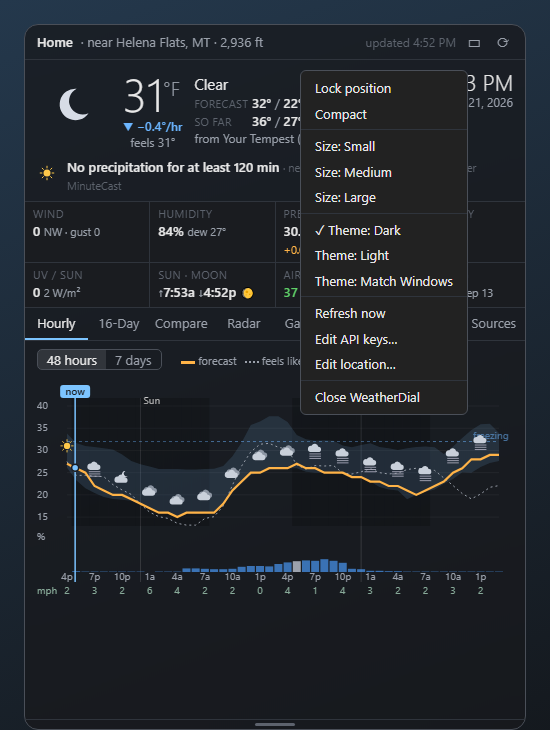
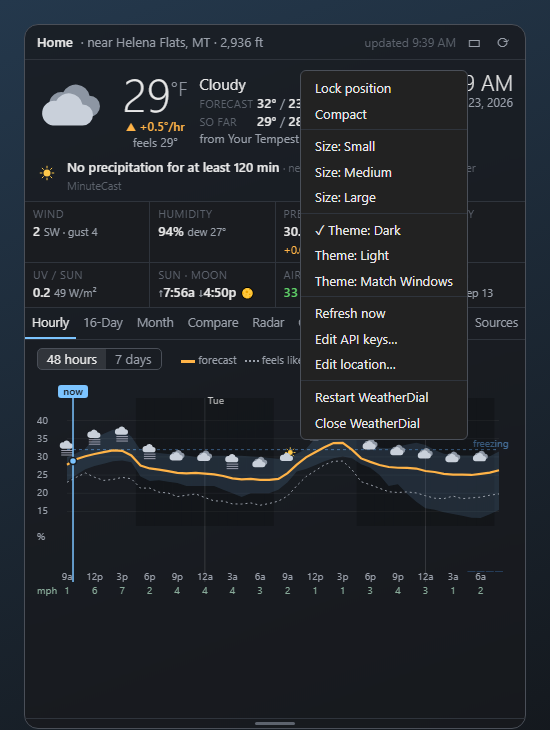
Month calendar tab; Restart WeatherDial in the menus
- Month tab: calendar of forecast days (icon, weighted high/low, rain/snow, colour strip) and past days measured by the station with the day-before forecast miss; red/blue markers for the month's warmest high and coldest low; month arrows; hover for details, click to open the day on 16-Day
- Restart WeatherDial in the right-click and tray menus: the new copy waits for the old one to close
- Tab labels slightly smaller to fit nine tabs
- README and screenshots (Month, menu)

diff --git a/panel.html b/panel.html
@@ -76,7 +76,7 @@
   .stat .v small { font-weight: 400; color: var(--dim); }
 
   nav { display: flex; border-bottom: 1px solid var(--line); }
-  nav div { flex: 1; text-align: center; padding: 6px 0; color: var(--dim); cursor: pointer; border-bottom: 2px solid transparent; }
+  nav div { flex: 1 1 auto; text-align: center; padding: 6px 3px; font-size: 12.5px; white-space: nowrap; color: var(--dim); cursor: pointer; border-bottom: 2px solid transparent; }
   nav div:hover { color: var(--text); }
   nav div.on { color: var(--text); border-bottom-color: var(--accent); }
   .tab { display: none; padding: 8px 12px 10px; height: var(--tabh, 360px); overflow-y: auto; }
@@ -110,6 +110,32 @@
   .day .txt { color: var(--dim); overflow: hidden; white-space: nowrap; text-overflow: ellipsis; }
   .day .pop { color: var(--rain); text-align: right; }
   .day .lo { color: var(--cold); text-align: right; } .day .hi { color: var(--warm); }
+  .calbar { display: flex; align-items: center; gap: 6px; margin-bottom: 6px; }
+  .calbar .mb { cursor: pointer; color: var(--dim); padding: 0 7px; border: 1px solid var(--edge); border-radius: 4px; }
+  .calbar .mb:hover { color: var(--text); background: var(--hover2); }
+  .calbar .mb.off { visibility: hidden; }
+  .calbar b { min-width: 118px; text-align: center; }
+  .cal { display: grid; grid-template-columns: repeat(7, 1fr); gap: 3px; }
+  .cal .wd { text-align: center; color: var(--faint); font-size: 11px; }
+  .cal .c { position: relative; min-height: 62px; padding: 2px 4px 6px; border-radius: 5px; background: var(--hover2);
+            font-size: 11px; overflow: hidden; cursor: help; }
+  .cal .c.fc { cursor: pointer; } .cal .c.fc:hover { background: var(--sel); }
+  .cal .c.out { opacity: .4; }
+  .cal .c.none { background: transparent; border: 1px dashed var(--line); cursor: default; }
+  .cal .c.today { box-shadow: inset 0 0 0 1.5px var(--accent); }
+  .cal .dn { color: var(--dim); font-weight: 600; }
+  .cal .today .dn { color: var(--accent); }
+  .cal .ic { position: absolute; top: 2px; right: 2px; }
+  .cal .t { margin-top: 10px; font-size: 13px; font-weight: 600; white-space: nowrap; }
+  .cal .t .h { color: var(--warm); } .cal .t .l { color: var(--cold); font-weight: 400; }
+  .cal .past .t .h, .cal .past .t .l { color: var(--dim); }
+  .cal .p { color: var(--rain); font-size: 10px; white-space: nowrap; }
+  .cal .m { color: var(--faint); font-size: 10px; }
+  .cal .xb { display: inline-block; margin-left: 3px; padding: 0 3px; border-radius: 3px; font-size: 9px; line-height: 13px; color: #fff; vertical-align: 1px; }
+  .cal .xb.hot { background: #d9443a; } .cal .xb.cold { background: #2a74c9; }
+  .cal .t .xhi, .cal .past .t .xhi { color: #fff; background: #d9443a; border-radius: 3px; padding: 0 2px; }
+  .cal .t .xlo, .cal .past .t .xlo { color: #fff; background: #2a74c9; border-radius: 3px; padding: 0 2px; font-weight: 600; }
+  .cal .strip { position: absolute; left: 0; right: 0; bottom: 0; height: 3px; }
   .bar { position: relative; height: 6px; background: var(--track); border-radius: 3px; cursor: help; }
   .bar::before { content: ""; position: absolute; inset: -9px 0; }   /* a taller area for the tooltip */
   .bar .rng { position: absolute; top: 0; height: 6px; border-radius: 3px; }
@@ -202,11 +228,12 @@
   <div class="stats" id="stats"></div>
   <div class="mini3" id="mini3"></div>
   <nav id="nav">
-    <div data-t="hourly" class="on">Hourly</div><div data-t="daily">16-Day</div><div data-t="compare">Compare</div>
+    <div data-t="hourly" class="on">Hourly</div><div data-t="daily">16-Day</div><div data-t="month">Month</div><div data-t="compare">Compare</div>
     <div data-t="radar">Radar</div><div data-t="gauges">Gauges</div><div data-t="health" id="navHealth" hidden>Health</div><div data-t="afd">Forecaster</div><div data-t="sources">Sources</div>
   </nav>
   <div class="tab on" id="t-hourly"></div>
   <div class="tab" id="t-daily"></div>
+  <div class="tab" id="t-month"></div>
   <div class="tab" id="t-compare"></div>
   <div class="tab" id="t-radar"><div id="radar"></div><div style="margin-top:6px;color:var(--dim)" id="radarInfo"></div></div>
   <div class="tab" id="t-gauges"></div>
@@ -233,6 +260,7 @@
   <div data-act="edit_keys">Edit API keys…</div>
   <div data-act="edit_location">Edit location…</div>
   <hr>
+  <div data-act="restart" title="Close and start again, e.g. after updating WeatherDial's files">Restart WeatherDial</div>
   <div data-act="quit">Close WeatherDial</div>
 </div>
 <script>
@@ -357,7 +385,7 @@ function render() {
 
   renderMinuteCast(); renderHealth(); renderGauges();
   if ($("t-radar").classList.contains("on")) radar();   // keeps an open radar tab current
-  renderHourly(); renderDaily(); renderCompare(); renderAfd(); renderSources();
+  renderHourly(); renderDaily(); renderMonth(); renderCompare(); renderAfd(); renderSources();
 }
 
 // ---------------------------------------------------------------- optional AccuWeather extras
@@ -498,6 +526,94 @@ function renderDaily() {
       <table>${srcRows}</table></div>`;
   }).join("") + `<p style="color:var(--faint);font-size:11px;margin:8px 0 0">High/low = ${W ? "average of all sources, weighted so the most accurate ones count more (switch on the Compare tab)" : "average of all sources"}. Thin marks = the coldest low and warmest high any source predicts. Dot = how well the sources agree (green good, yellow fair, red they disagree). Click a day for details.</p>`;
 }
+// ---------------------------------------------------------------- month calendar
+// Forecast days (the same averages as 16-Day) on a calendar, and for past days what your station
+// measured. Click a forecast day for its details on the 16-Day tab.
+let calMonth = null;     // "YYYY-MM" being shown; null = this month
+const ymd = d => `${d.getFullYear()}-${String(d.getMonth() + 1).padStart(2, "0")}-${String(d.getDate()).padStart(2, "0")}`;
+function renderMonth() {
+  if (!D.days.length) return;
+  const today = D.days[0].date, fc = {}, act = {};
+  D.days.forEach((d, i) => fc[d.date] = i);
+  for (const r of D.verify || []) if (r.actual && r.actual.hi != null && r.date < today) act[r.date] = r;
+  const g = D.gauges?.t_today;
+  // the months there's something to show: the oldest measured day through the last forecast day
+  const first = [today, ...Object.keys(act)].sort()[0].slice(0, 7), last = D.days[D.days.length - 1].date.slice(0, 7);
+  if (!calMonth || calMonth < first || calMonth > last) calMonth = today.slice(0, 7);
+  const [y, m] = calMonth.split("-").map(Number);
+  const start = new Date(y, m - 1, 1); start.setDate(1 - start.getDay());
+  const end = new Date(y, m, 0); end.setDate(end.getDate() + 6 - end.getDay());
+  const wavg = (fcs, k) => { let s = 0, w = 0;
+    for (const [src, v] of Object.entries(fcs || {})) if (v[k] != null) { const x = W ? (W[src] ?? W._typical) : 1; s += v[k] * x; w += x; }
+    return w ? s / w : null; };
+  const agreeTxt = { good: "good (all within 5°)", fair: "fair (within 10°)", low: "low (more than 10° apart)" };
+  // the month's warmest high and coldest low (measured days and forecast days alike; ties all marked)
+  const inMonth = [];
+  for (let dd = new Date(y, m - 1, 1); dd.getMonth() === m - 1; dd.setDate(dd.getDate() + 1)) {
+    const ds = ymd(dd);
+    if (fc[ds] != null) inMonth.push([Math.round(D.days[fc[ds]].hi), Math.round(D.days[fc[ds]].lo)]);
+    else if (act[ds]) inMonth.push([Math.round(act[ds].actual.hi), Math.round(act[ds].actual.lo)]);
+  }
+  const topHi = inMonth.length ? Math.max(...inMonth.map(v => v[0])) : null, botLo = inMonth.length ? Math.min(...inMonth.map(v => v[1])) : null;
+  const mName = new Date(y, m - 1, 1).toLocaleDateString("en-US", { month: "long" });
+  const ext = (hi, lo, out, fcst) => {      // badges, tooltip lines and number classes for this day
+    if (out) return { b: "", t: "", h: "", l: "", c: "" };
+    const isHi = Math.round(hi) === topHi, isLo = Math.round(lo) === botLo, w = fcst ? " (forecast)" : " (measured)";
+    return { b: (isHi ? `<span class="xb hot" title="Warmest high in ${mName}">▲</span>` : "") + (isLo ? `<span class="xb cold" title="Coldest low in ${mName}">▼</span>` : ""),
+             t: (isHi ? `\n▲ Warmest high of ${mName}${w}.` : "") + (isLo ? `\n▼ Coldest low of ${mName}${w}.` : ""),
+             h: isHi ? " xhi" : "", l: isLo ? " xlo" : "", c: isHi || isLo ? " xday" : "" };
+  };
+  let cells = "";
+  for (const d = new Date(start); d <= end; d.setDate(d.getDate() + 1)) {
+    const ds = ymd(d), out = d.getMonth() !== m - 1 ? " out" : "", long = d.toLocaleDateString("en-US", { weekday: "long", month: "long", day: "numeric" });
+    const dn = `<div class="dn">${d.getDate()}</div>`;
+    if (fc[ds] != null) {
+      const i = fc[ds], x = D.days[i], dd = D.detail_days[ds] || {};
+      const txt = (x.by["NWS (official)"] || {}).text || dd.text || "";
+      const isToday = ds === today;
+      const wet = dd.snow >= 0.1 ? `❄ ${dd.snow.toFixed(1)}"` : x.pop ? `${x.pop}%` : "";
+      const tip = `${long}${isToday ? " (today)" : ""}\n${txt ? txt + "\n" : ""}` +
+        `Forecast high ${f0(x.hi)}°, low ${f0(x.lo)}° (${W ? "weighted " : ""}average of ${x.hi_n || Object.keys(x.by).length} sources; ` +
+        `highs ${f0(x.hi_min)}–${f0(x.hi_max)}°, lows ${f0(x.lo_min)}–${f0(x.lo_max)}°)\n` +
+        (x.pop ? `Chance of rain or snow ${x.pop}%` + (dd.snow ? `, snow about ${dd.snow.toFixed(1)}"` : dd.precip ? `, about ${dd.precip.toFixed(2)}"` : "") + "\n" : "") +
+        (x.agree ? `Sources agree: ${agreeTxt[x.agree]}\n` : "") +
+        (isToday && g ? `Measured so far today: high ${f0(g.hi)}°, low ${f0(g.lo)}°\n` : "") +
+        `Click for the details on the 16-Day tab.` + ext(x.hi, x.lo, out, true).t;
+      const e = ext(x.hi, x.lo, out, true);
+      cells += `<div class="c fc${out}${isToday ? " today" : ""}${e.c}" data-i="${i}" title="${esc(tip)}"><div class="dn">${d.getDate()}${e.b}</div><div class="ic">${icon(x.icon, 20)}</div>
+        <div class="t"><span class="h${e.h}">${f0(x.hi)}°</span> <span class="l${e.l}">${f0(x.lo)}°</span></div>
+        <div class="p">${wet}</div>${isToday && g ? `<div class="m">so far ${f0(g.hi)}/${f0(g.lo)}</div>` : ""}
+        <div class="strip" style="background:linear-gradient(90deg,${tempColor(x.lo)},${tempColor(x.hi)})"></div></div>`;
+    } else if (act[ds]) {
+      const r = act[ds], fh = wavg(r.fc, "hi"), fl = wavg(r.fc, "lo");
+      const miss = fh != null && fl != null ? (Math.abs(fh - r.actual.hi) + Math.abs(fl - r.actual.lo)) / 2 : null;
+      const tip = `${long}\nMeasured by your station: high ${r.actual.hi.toFixed(1)}°F, low ${r.actual.lo.toFixed(1)}°F.` +
+        (fh != null ? `\nForecast the day before (${W ? "weighted " : ""}average of the sources): high ${f0(fh)}°, low ${f0(fl)}°, off by ${miss.toFixed(1)}° on average.` : "");
+      const e = ext(r.actual.hi, r.actual.lo, out, false);
+      cells += `<div class="c past${out}${e.c}" title="${esc(tip + e.t)}"><div class="dn">${d.getDate()}${e.b}</div>
+        <div class="t"><span class="h${e.h}">${f0(r.actual.hi)}°</span> <span class="l${e.l}">${f0(r.actual.lo)}°</span></div>
+        <div class="m">measured${miss != null ? `<br>forecast ±${miss.toFixed(0)}°` : ""}</div>
+        <div class="strip" style="background:linear-gradient(90deg,${tempColor(r.actual.lo)},${tempColor(r.actual.hi)});opacity:.5"></div></div>`;
+    } else {
+      cells += `<div class="c none${out}" title="${esc(long + (ds > today ? "\nBeyond the 16-day forecast." : "\nNo record for this day."))}">${dn}</div>`;
+    }
+  }
+  const title = new Date(y, m - 1, 1).toLocaleDateString("en-US", { month: "long", year: "numeric" });
+  $("t-month").innerHTML = `<div class="calbar"><span class="mb${calMonth <= first ? " off" : ""}" data-m="-1" title="Previous month">‹</span>
+      <b>${title}</b><span class="mb${calMonth >= last ? " off" : ""}" data-m="1" title="Next month">›</span>
+      <span class="legend" title="${esc("Forecast days show the high and low (the same averages as the 16-Day tab), an icon and the chance of rain or snow (or the snow amount). " +
+        "Past days show what your station measured, grey, with how far the day-before forecast was off.\nThe coloured strip runs from the low's colour to the high's: purple below 10°, blue below 32°, teal below 50°, green below 70°, orange below 85°, red above.\nRed ▲ = the month's warmest high, blue ▼ = its coldest low, counting both measured and forecast days (shown only for days in the month).\nHover a day for more; click a forecast day for its details.")}">
+      <span style="color:var(--warm)">high</span> <span style="color:var(--cold)">low</span> · <span style="color:var(--rain)">rain/snow</span> · <span style="color:var(--dim)">grey = measured</span> · <span style="display:inline-block;padding:0 3px;border-radius:3px;font-size:9px;color:#fff;background:#d9443a">▲</span> max <span style="display:inline-block;padding:0 3px;border-radius:3px;font-size:9px;color:#fff;background:#2a74c9">▼</span> min ⓘ</span></div>
+    <div class="cal">${["Sun", "Mon", "Tue", "Wed", "Thu", "Fri", "Sat"].map(w => `<div class="wd">${w}</div>`).join("")}${cells}</div>`;
+}
+document.addEventListener("click", e => {
+  const mb = e.target.closest("#t-month .mb");
+  if (mb) { const [y, m] = calMonth.split("-").map(Number), d = new Date(y, m - 1 + +mb.dataset.m, 1);
+    calMonth = ymd(d).slice(0, 7); renderMonth(); return; }
+  const c = e.target.closest("#t-month .c.fc");
+  if (c) { showTab("daily"); app()?.remember("tab", "daily");
+    const box = $("dd" + c.dataset.i); box.classList.add("open"); box.previousElementSibling.scrollIntoView({ block: "start" }); }
+});
 function periodDate(p) {
   // NWS period names: "Today", "Tonight", "Wednesday", "Wednesday Night"...
   const base = new Date(D.updated); const names = D.days.map(d => d.date);
@@ -1267,6 +1383,7 @@ load().then(() => {   // ?tab=daily / ?compact: open that way (used for screensh
   if (Q.get("theme")) setTheme(Q.get("theme"), false);
   if (Q.get("tabh")) setTabHeight(+Q.get("tabh"), false, true);
   if (Q.get("span")) { hourSpan = +Q.get("span"); renderHourly(); }
+  if (Q.get("cal")) { calMonth = Q.get("cal"); renderMonth(); }
   if (Q.get("open")) $("dd" + Q.get("open"))?.classList.add("open");
   if (Q.get("hover")) {   // show the hourly tooltip at hour N
     const svg = $("hsvg"), r = svg.getBoundingClientRect(), n = Math.min(hourSpan, D.hourly.length);

diff --git a/app.py b/app.py
@@ -348,6 +348,16 @@ class Api:
         self.notify("Test: Winter Storm Warning until 6:00 AM",
                     "This is what a weather alert notification looks like. Click it to bring up the panel.")
 
+    def restart(self):
+        """Close and start again (picks up changed program files). The new copy waits until
+        this one has closed and freed the port."""
+        pyw = Path(sys.executable).with_name("pythonw.exe")
+        subprocess.Popen([str(pyw if pyw.exists() else sys.executable), str(HERE / "app.py"), "--restarted"],
+                         cwd=str(HERE), close_fds=True,
+                         creationflags=0x00000008 | 0x00000200)   # DETACHED_PROCESS | CREATE_NEW_PROCESS_GROUP
+        note("Restarting WeatherDial.")
+        self.quit()
+
     def quit(self):
         if self._tray:
             self._tray.Visible = False
@@ -559,6 +569,7 @@ def tray_icon(api):
         start.Click += EventHandler(toggle)
         menu.Items.Add(start)
         menu.Items.Add(ToolStripSeparator())
+        menu.Items.Add("Restart WeatherDial").Click += later(api.restart)
         menu.Items.Add("Close WeatherDial").Click += later(api.quit)
         tray = NotifyIcon()
         api._icons = {"normal": draw(), "alert": draw(True)}
@@ -611,9 +622,15 @@ def log_to_file():
 if __name__ == "__main__":
     if sys.stdout is None:
         log_to_file()
-    try:
-        server = Server(("127.0.0.1", PORT), Handler)
-    except OSError:
+    server = None
+    # After "Restart WeatherDial" the old copy may take a few seconds to close: keep trying.
+    for _ in range(60 if "--restarted" in sys.argv else 1):
+        try:
+            server = Server(("127.0.0.1", PORT), Handler)
+            break
+        except OSError:
+            time.sleep(0.5)
+    if server is None:
         note("Not started: WeatherDial is already running.")
         sys.exit(0)
     added = weather.complete_config(HERE / "config.json")   # show every setting in config.json

diff --git a/README.md b/README.md
@@ -47,6 +47,11 @@ forecasters' discussion). Elsewhere everything else still works.
   moment.
 - **16-Day:** the average of all sources for each day (weighted by accuracy, see below), with a coloured dot for how well they
   agree. Hover a day's bar for what the bar, its colours and the end ticks mean.
+- **Month:** a calendar. Forecast days show the icon, high/low (the same averages as 16-Day),
+  chance of rain or snow (or the snow amount) and a colour strip; past days show what your
+  station measured, with how far the day-before forecast was off. A red ▲ marks the month's
+  warmest high and a blue ▼ its coldest low. ‹ › change month; hover a day for more; click a
+  forecast day to open it on the 16-Day tab.
 - **Compare:** every source's highs and lows side by side, plus the current readings from
   your station, the nearest airport and the model.
 - **Accuracy** (Compare and Sources): a badge per source showing how close its next-day
@@ -107,9 +112,9 @@ forecasters' discussion). Elsewhere everything else still works.
 |---|---|---|
 | ![Barometer](docs/screenshots/gauges-classic-big.png) | ![Dials](docs/screenshots/gauges-light.png) | ![Help](docs/screenshots/gauges-help.png) |
 
-| Gauges: Tubes | Gauges: 72 h graphs |
-|---|---|
-| ![Tubes](docs/screenshots/gauges-tubes.png) | ![Graphs](docs/screenshots/gauges-graphs.png) |
+| Gauges: Tubes | Gauges: 72 h graphs | Month calendar |
+|---|---|---|
+| ![Tubes](docs/screenshots/gauges-tubes.png) | ![Graphs](docs/screenshots/gauges-graphs.png) | ![Month](docs/screenshots/month.png) |
 
 The optional parts (MinuteCast, Health, lightning and so on) appear only when their key
 allows them. Without any keys the panel looks like the last picture and still works fully.
@@ -212,7 +217,9 @@ to the Tempest settings after restarting WeatherDial.
   follows Windows' own light/dark setting and changes with it. The radar map has a light
   and a dark version too.
 - **Right-click** the panel for its menu: Lock position, Compact / Full size, Small / Medium /
-  Large, Refresh now, Edit API keys…, Edit location…, Close WeatherDial.
+  Large, Theme, Refresh now, Edit API keys…, Edit location…, **Restart WeatherDial** (close and
+  start again, e.g. after updating its files or changing a setting that needs a restart), Close
+  WeatherDial.
 - **The tray icon** (a sun and cloud, with a red ⚠ while a weather alert is active) has the
   same options, plus **Show weather alerts**, **Test alert notification** and **Start with
   Windows**.
@@ -352,7 +359,7 @@ The **Sources** tab shows how long ago each source was last downloaded.
 - **"No broadcast heard from a Tempest hub yet"** (Sources tab): Windows' firewall is blocking
   Python, or the PC isn't on the same network as the hub. Open *Windows Security → Firewall &
   network protection → Allow an app through firewall*, find **Python** and tick **Private**.
-  Then right-click the tray icon → Close WeatherDial and run `Start.bat`. Until then, "Now"
+  Then right-click the panel or the tray icon → **Restart WeatherDial**. Until then, "Now"
   comes from the Tempest cloud (with the token) or the nearest airport.
 - **The location is wrong:** run `Install.bat` again and paste the right numbers.
 - **No alert notifications:** check `alert_notify` in `config.json` isn't `"off"`, and that
